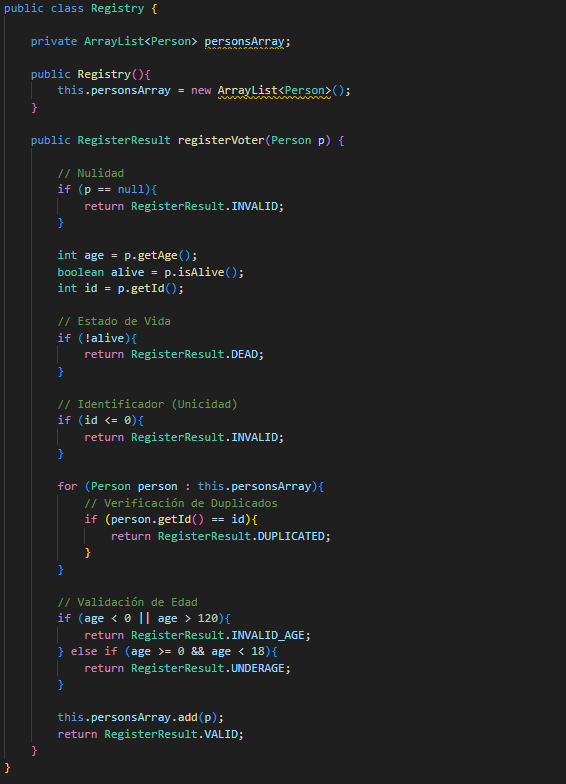
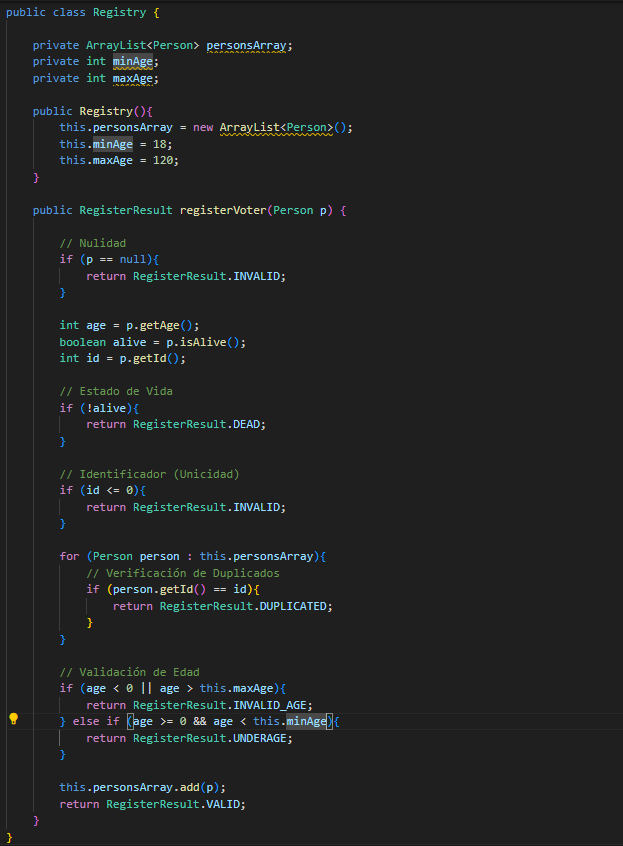
REFACTOR - Extracción de Constantes y Limites de Edad

diff --git a/clasesequivalencia/src/test/java/edu/unisabana/tyvs/domain/service/RegistryTest.java b/clasesequivalencia/src/test/java/edu/unisabana/tyvs/domain/service/RegistryTest.java
@@ -35,11 +35,11 @@ public class RegistryTest {
     @Test 
     public void shouldRejectIdDuplicated(){
         Registry registry = new Registry();
-        Person person1 = new Person("Javier", 2, 34, Gender.MALE, true);
-        Person person2 = new Person("Francisco", 2, 76, Gender.MALE, true);
+        Person original = new Person("Javier", 2, 34, Gender.MALE, true);
+        Person duplicated = new Person("Francisco", 2, 76, Gender.MALE, true);
 
-        registry.registerVoter(person1);
-        RegisterResult result = registry.registerVoter(person2);
+        registry.registerVoter(original);
+        RegisterResult result = registry.registerVoter(duplicated);
 
         Assert.assertEquals(RegisterResult.DUPLICATED, result);
     }
@@ -47,9 +47,9 @@ public class RegistryTest {
     @Test
     public void shouldRejectWhenPersonIsNull(){
         Registry registry = new Registry();
-        Person person = null;
+        Person nullPerson = null;
 
-        RegisterResult result = registry.registerVoter(person);
+        RegisterResult result = registry.registerVoter(nullPerson);
 
         Assert.assertEquals(RegisterResult.INVALID, result);
     }
@@ -57,9 +57,9 @@ public class RegistryTest {
     @Test
     public void shouldRejectWhenIdIsZeroOrNegative(){
         Registry registry = new Registry();
-        Person person = new Person("Carlos", 0, 25, Gender.MALE, true);
+        Person negativeIdPerson = new Person("Carlos", 0, 25, Gender.MALE, true);
 
-        RegisterResult result = registry.registerVoter(person);
+        RegisterResult result = registry.registerVoter(negativeIdPerson);
 
         Assert.assertEquals(RegisterResult.INVALID, result);
     }
@@ -67,9 +67,9 @@ public class RegistryTest {
     @Test
     public void shouldRejectUnderageAt17(){
         Registry registry = new Registry();
-        Person person = new Person("Joel", 3, 17, Gender.MALE, true);
+        Person underAgePerson = new Person("Joel", 3, 17, Gender.MALE, true);
 
-        RegisterResult result = registry.registerVoter(person);
+        RegisterResult result = registry.registerVoter(underAgePerson);
 
         Assert.assertEquals(RegisterResult.UNDERAGE, result);
     }
@@ -77,9 +77,9 @@ public class RegistryTest {
     @Test 
     public void shouldAcceptAdultAt18(){
         Registry registry = new Registry();
-        Person person = new Person("Michael", 4, 18, Gender.MALE, true);
+        Person minAgePerson = new Person("Michael", 4, 18, Gender.MALE, true);
 
-        RegisterResult result = registry.registerVoter(person);
+        RegisterResult result = registry.registerVoter(minAgePerson);
 
         Assert.assertEquals(RegisterResult.VALID, result);
     }
@@ -87,9 +87,9 @@ public class RegistryTest {
     @Test
     public void shouldAcceptMaxAge120(){
         Registry registry = new Registry();
-        Person person = new Person("Luisa", 5, 120,Gender.FEMALE, true);
+        Person maxAgePerson = new Person("Luisa", 5, 120,Gender.FEMALE, true);
 
-        RegisterResult result = registry.registerVoter(person);
+        RegisterResult result = registry.registerVoter(maxAgePerson);
 
         Assert.assertEquals(RegisterResult.VALID, result);
     }
@@ -97,9 +97,9 @@ public class RegistryTest {
     @Test
     public void shouldRejectInvalidAgeOver120(){
         Registry registry = new Registry();
-        Person person = new Person("Sara", 6, 121,Gender.FEMALE, true);
+        Person invalidAgePerson = new Person("Sara", 6, 121,Gender.FEMALE, true);
 
-        RegisterResult result = registry.registerVoter(person);
+        RegisterResult result = registry.registerVoter(invalidAgePerson);
 
         Assert.assertEquals(RegisterResult.INVALID_AGE, result);
     }

diff --git a/clasesequivalencia/src/main/java/edu/unisabana/tyvs/domain/service/Registry.java b/clasesequivalencia/src/main/java/edu/unisabana/tyvs/domain/service/Registry.java
@@ -7,9 +7,13 @@ import edu.unisabana.tyvs.domain.model.RegisterResult;
 public class Registry {
 
     private ArrayList<Person> personsArray;
+    private int minAge;
+    private int maxAge;
 
     public Registry(){
         this.personsArray = new ArrayList<Person>();
+        this.minAge = 18;
+        this.maxAge = 120;
     }
 
     public RegisterResult registerVoter(Person p) {
@@ -19,28 +23,31 @@ public class Registry {
             return RegisterResult.INVALID;
         }
 
+        int age = p.getAge();
+        boolean alive = p.isAlive();
+        int id = p.getId();
+
         // Estado de Vida
-        if (!p.isAlive()){
+        if (!alive){
             return RegisterResult.DEAD;
         }
 
         // Identificador (Unicidad)
-        if (p.getId() <= 0){
+        if (id <= 0){
             return RegisterResult.INVALID;
         } 
 
-        // Verificación de Duplicados
         for (Person person : this.personsArray){
-            if (person.getId() == p.getId()){
+            // Verificación de Duplicados
+            if (person.getId() == id){
                 return RegisterResult.DUPLICATED;
             }
         }
 
-        
-        // Verificación de Edad
-        if (p.getAge() < 0 || p.getAge() > 120){
+        // Validación de Edad
+        if (age < 0 || age > this.maxAge){
             return RegisterResult.INVALID_AGE;
-        } else if (p.getAge() >= 0 && p.getAge() < 18){
+        } else if (age >= 0 && age < this.minAge){
             return RegisterResult.UNDERAGE;
         }
 

diff --git a/defectos.md b/defectos.md
@@ -1,66 +1,14 @@
-# Registro de Defectos
+# Tabla de defectos (bug tracking)
 
-Este documento recopila los defectos encontrados durante la ejecución de pruebas unitarias del proyecto **Registraduría**.  
-Cada defecto debe documentarse claramente para facilitar su análisis y corrección.
+| ID  | Caso de Prueba | Entrada | Resultado Esperado | Resultado Obtenido | Causa Probable | Estado |
+|-----|----------------|---------|--------------------|--------------------|----------------|--------|
+| 01  | Registrar Persona            |   Person("Ana", 1, 30, Gender.FEMALE, true)   | VALID             |        null       | No se ha aplicado la lógica de registrar una persona en  `registerVoter` y la función no retorna ningún RegistryResult | Resuelto |
+| 02  | Persona Muerta            | Person("Carlos", 2, 40, Gender.MALE, false)     |      DEAD      | null                | No se ha implementado la validación de una persona muerta en `registerVoter` y la función no retorna ningún RegistryResult          | Resuelto |
+| 03  | ID Duplicado            | Person("Francisco", 2, 76, Gender.MALE, true)     | DUPLICATED                | null                | No se ha programado la validación de una persona con ID duplicado en `registerVoter` y la función no retorna ningún RegistryResult          | Resuelto |
+| 04  | Persona Nula           | null     | INVALID             | null                | No se ha programado la confirmación de que el objeto persona es nulo dentro de `registerVoter` y la función no retorna ningún RegistryResult         | Resuelto |
+| 05  | Menor de Edad          | Person("Joel", 3, 17, Gender.MALE, true)    | UNDER_AGE                | null                | Falta Establecer límite inferior de edad en `registerVoter` y la función no retorna ningún RegistryResult         | Resuelto |
+| 06  | Límite Inferior 18 años          | Person("Michael", 4, 18, Gender.MALE, true)     | VALID                | null                | No se está verificando la mayoría de edad en  `registerVoter` y la función no retorna ningún RegistryResult          | Resuelto |
+| 07  | 18-120 Años         | Person("Luisa", 5, 120,Gender.FEMALE, true)     | VALID               | null                | Falta de establecimiento de Umbral de edad en  `registerVoter` y la función no retorna ningún RegistryResult        | Resuelto |
+| 07  | Mayor 120          | Person("Sara", 6, 121,Gender.FEMALE, true)     | INVALID_aGE                | null                | Falta de establecimiento del límite superior de edad en `registerVoter` y la función no retorna ningún RegistryResult          | Resuelto |
+| 08  | ID Duplicado            | Person("Francisco", 2, 76, Gender.MALE, true)     | DUPLICATED                | null                | Sólo se inserto 1 persona, no dos con el mismo ID          | Resuelto |
 
----
-
-## Formato 1: Lista detallada (narrativa)
-
-### Defecto 01
-- **Caso de prueba**: Persona con edad -1 (edad inválida).
-- **Entrada**: `Person(name="Juan", id=101, age=-1, gender=MALE, alive=true)`
-- **Resultado esperado**: `INVALID_AGE`
-- **Resultado obtenido**: `VALID`
-- **Causa probable**: Falta de validación de edad negativa en `Registry.registerVoter`.
-- **Estado**: Abierto
-
----
-
-### Defecto 02
-- **Caso de prueba**: Persona muerta.
-- **Entrada**: `Person(name="Ana", id=102, age=45, gender=FEMALE, alive=false)`
-- **Resultado esperado**: `DEAD`
-- **Resultado obtenido**: `VALID`
-- **Causa probable**: No se evalúa la condición `alive=false`.
-- **Estado**: Abierto
-
----
-
-### Defecto 03
-- **Caso de prueba**: Registro duplicado con el mismo `id`.
-- **Entradas**:  
-  - Persona 1: `Person(name="Carlos", id=200, age=30, gender=MALE, alive=true)`  
-  - Persona 2: `Person(name="Carla", id=200, age=25, gender=FEMALE, alive=true)`  
-- **Resultado esperado**:  
-  - Persona 1 → `VALID`  
-  - Persona 2 → `DUPLICATED`  
-- **Resultado obtenido**:  
-  - Persona 1 → `VALID`  
-  - Persona 2 → `VALID`  
-- **Causa probable**: No hay verificación de `id` previamente registrado.
-- **Estado**: Abierto
-
----
-
-## Formato 2: Tabla de defectos (bug tracking)
-
-| ID  | Caso de Prueba      | Entrada | Resultado Esperado | Resultado Obtenido | Causa Probable | Estado |
-|-----|---------------------|---------|--------------------|--------------------|----------------|--------|
-| 01  | Edad inválida       | `Person(id=101, age=-1, alive=true)` | `INVALID_AGE` | `VALID` | No se valida edad negativa | Abierto |
-| 02  | Persona muerta      | `Person(id=102, age=45, alive=false)` | `DEAD` | `VALID` | No se evalúa condición `alive=false` | Abierto |
-| 03  | Registro duplicado  | `Person(id=200, age=30, alive=true)` + `Person(id=200, age=25, alive=true)` | 1º → `VALID`<br>2º → `DUPLICATED` | 1º → `VALID`<br>2º → `VALID` | No hay verificación de `id` duplicado | Abierto |
-
----
-
-## Convenciones de Estado
-- **Abierto** → El defecto aún no se corrige.  
-- **En progreso** → El defecto está siendo trabajado.  
-- **Resuelto** → El defecto fue corregido y validado con pruebas.  
-
----
-
-## Observaciones
-- Se pueden usar **ambos formatos** o elegir uno como estándar de equipo.  
-- El objetivo es **gestionar la calidad del software** y **demostrar un proceso sistemático de testing**.  
-- Mantener este archivo actualizado durante todo el ciclo de desarrollo.
